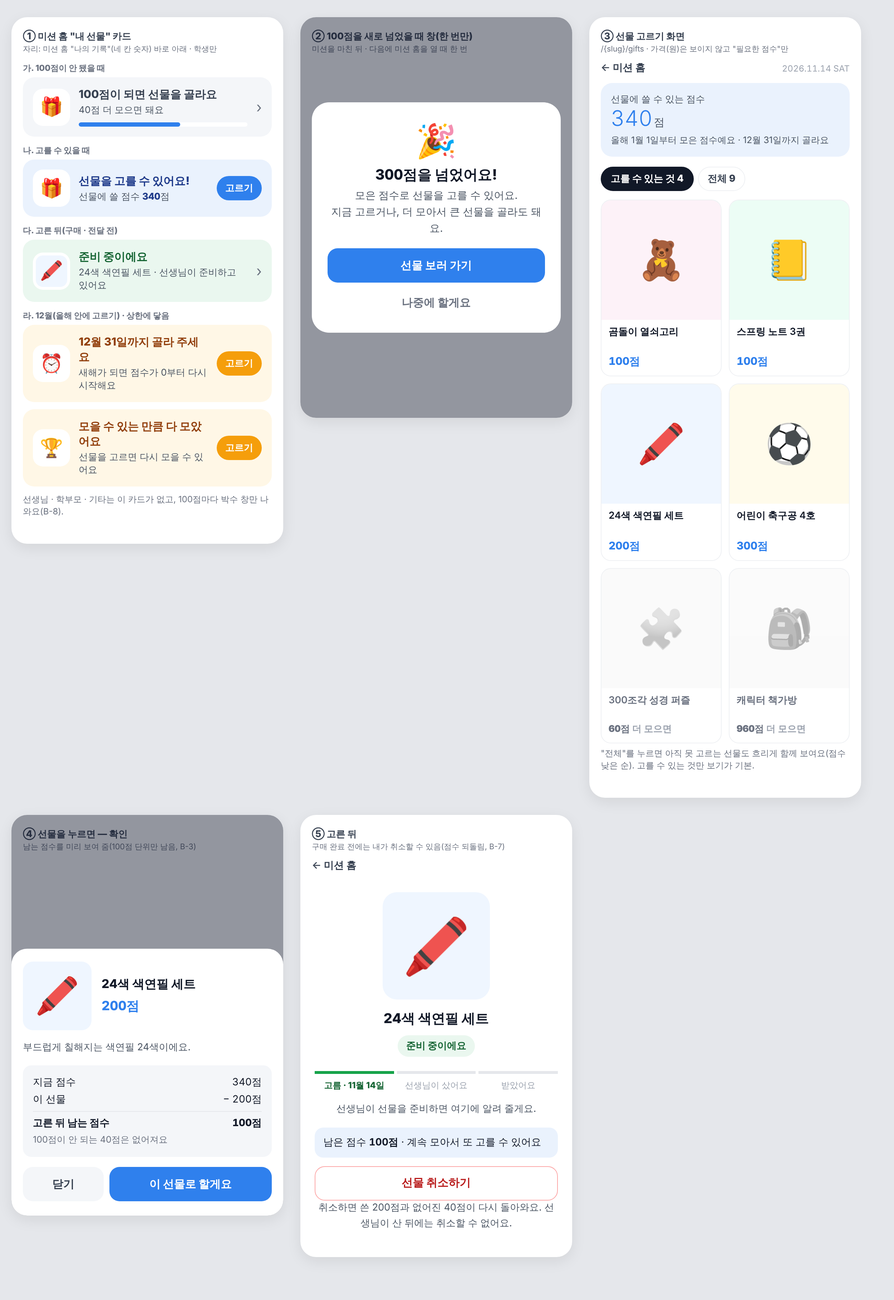
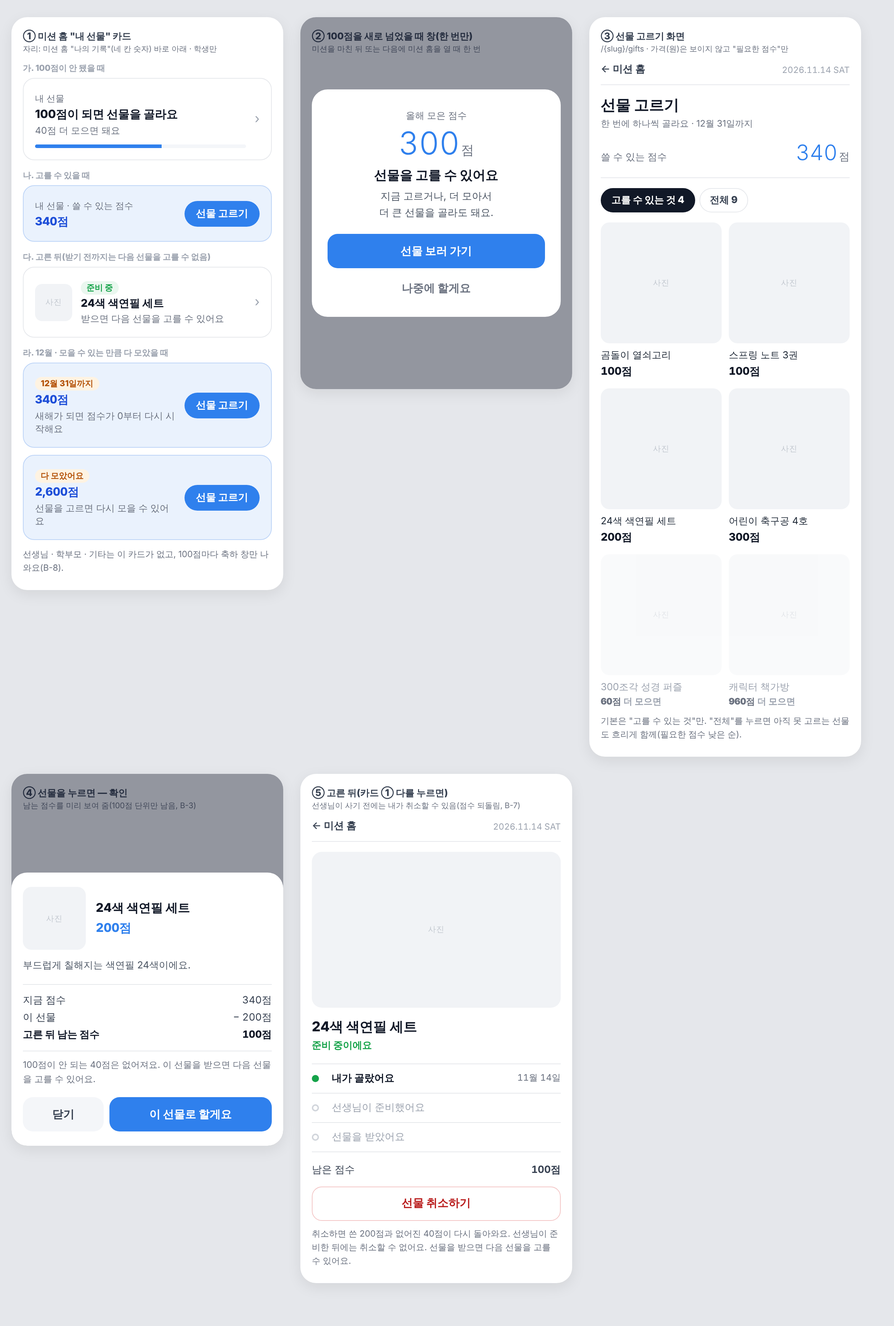
docs: gift picking mockup v2 (no emoji, one gift at a time)
Claude-Session: https://claude.ai/code/session_01HwbSXdgHx7n633oVVo9P9D

diff --git a/docs/design/시안/말씀-선물고르기-단독시안.html b/docs/design/시안/말씀-선물고르기-단독시안.html
@@ -5,97 +5,100 @@
 <meta name="viewport" content="width=device-width, initial-scale=1.0" />
 <title>개인 선물 고르기 시안</title>
 <style>
-/* 시안(2026-11-14): 도전 성경말씀 개인 선물 고르기(ADR 0094 B, 정한 것 1 · 2, R-279 ~ R-285).
-   ① 미션 홈 "내 선물" 카드(나의 기록 아래) — 상태 4가지  ② 100점을 새로 넘을 때 창 한 번
-   ③ 선물 고르기 화면(/{slug}/gifts)  ④ 고르기 확인  ⑤ 고른 뒤.
-   아이에게는 점수만(가격 · 크레딧 숨김). 상품 · 숫자는 지어낸 것. 모양은 미션 홈(mission-old.css) 색 · 글꼴을 따른다. */
-:root { --bg:#fff; --fg:#111827; --dim:#9CA3AF; --dim2:#6B7280; --rule:#EEF0F3; --soft:#F4F6F9; --accent:#2F80ED; --accent-bg:#EAF2FD; --green:#16A34A; --ok-bg:#EAF7EF; --warm:#F59E0B; --warm-bg:#FFF7E6; }
+/* 시안 2판(2026-11-14): 도전 성경말씀 개인 선물 고르기(ADR 0094 B, 정한 것 1 · 2 · 8, R-279 ~ R-285).
+   사용자: 이모지 없이 깔끔하게, 선물은 한 번에 하나(받은 뒤 다음 선물).
+   ① 미션 홈 "내 선물" 카드(나의 기록 아래)  ② 100점을 새로 넘을 때 창 한 번  ③ 고르기 화면(/{slug}/gifts)  ④ 확인  ⑤ 고른 뒤.
+   아이에게는 점수만(가격 · 크레딧 숨김). 상품 사진 자리는 회색 칸(실제는 상품 사진). 상품 · 숫자는 지어낸 것. */
+:root { --bg:#fff; --fg:#111827; --dim:#9CA3AF; --dim2:#6B7280; --rule:#E5E7EB; --soft:#F4F6F9; --accent:#2F80ED; --accent-bg:#EAF2FD; --green:#16A34A; --ok-bg:#EAF7EF; --warm:#B45309; }
 * { box-sizing: border-box; }
 body { margin: 0; padding: 24px 16px 60px; background: #E5E7EB; font-family: "Gothic A1", "Malgun Gothic", system-ui, sans-serif; color: var(--fg); }
 .num { font-variant-numeric: tabular-nums; }
 .board { display: flex; flex-wrap: wrap; gap: 24px; align-items: flex-start; }
 .ph { width: 380px; max-width: 100%; background: var(--bg); border-radius: 22px; padding: 18px 16px 22px; box-shadow: 0 6px 20px rgba(0,0,0,.08); position: relative; overflow: hidden; }
-.cap { font-size: 13px; font-weight: 800; color: #374151; margin: 0 0 10px; }
+.cap { font-size: 13px; font-weight: 800; color: #374151; margin: 0 0 12px; }
 .cap small { display: block; font-weight: 400; color: var(--dim2); margin-top: 2px; }
-.sh { font-size: 17px; font-weight: 800; margin: 4px 0 10px; }
-.hint { font-size: 12px; color: var(--dim2); margin: 6px 0 14px; }
+.hint { font-size: 12px; color: var(--dim2); margin: 8px 0 0; line-height: 1.6; }
+.lbl { font-size: 11.5px; font-weight: 800; color: var(--dim); margin: 14px 0 6px; }
+.lbl:first-of-type { margin-top: 0; }
+.pic { background: #F1F3F6; display: grid; place-items: center; color: #C3C8D0; font-size: 11px; letter-spacing: .04em; }
 
-/* ① 미션 홈 카드 */
-.gk { display: grid; grid-template-columns: 52px minmax(0,1fr) auto; gap: 12px; align-items: center; padding: 14px; border-radius: 16px; background: var(--accent-bg); text-decoration: none; color: inherit; margin-bottom: 10px; }
-.gk .ic { width: 52px; height: 52px; border-radius: 14px; background: #fff; display: grid; place-items: center; font-size: 26px; }
-.gk b { display: block; font-size: 15.5px; font-weight: 800; color: #1E3A8A; }
-.gk small { display: block; font-size: 13px; color: #4B5563; margin-top: 2px; }
-.gk .pb { display: block; height: 6px; border-radius: 9px; background: #fff; margin-top: 8px; overflow: hidden; }
-.gk .pb i { display: block; height: 100%; background: var(--accent); border-radius: 9px; }
-.gk .go { font-size: 13px; font-weight: 800; color: #fff; background: var(--accent); padding: 8px 12px; border-radius: 99px; white-space: nowrap; }
-.gk .ar { font-size: 20px; color: #6B7280; }
-.gk.wait { background: var(--soft); }
-.gk.wait b { color: #374151; }
-.gk.got { background: var(--ok-bg); }
-.gk.got b { color: #166534; }
-.gk.got .ic img, .gk .ic .thumb { width: 44px; height: 44px; border-radius: 10px; }
-.gk.dec { background: var(--warm-bg); }
-.gk.dec b { color: #92400E; }
-.lbl { font-size: 11.5px; font-weight: 800; color: var(--dim2); margin: 12px 0 5px; }
+/* ① 미션 홈 카드: 흰 바탕 + 얇은 테두리, 왼쪽 굵은 숫자 */
+.gk { display: grid; grid-template-columns: minmax(0,1fr) auto; gap: 12px; align-items: center; padding: 16px; border-radius: 16px; border: 1px solid var(--rule); text-decoration: none; color: inherit; margin-bottom: 10px; }
+.gk .k { font-size: 12.5px; color: var(--dim2); }
+.gk b { display: block; font-size: 16px; font-weight: 800; margin-top: 2px; }
+.gk small { display: block; font-size: 13px; color: var(--dim2); margin-top: 3px; }
+.gk .pb { display: block; height: 5px; border-radius: 9px; background: var(--soft); margin-top: 10px; overflow: hidden; }
+.gk .pb i { display: block; height: 100%; background: var(--accent); }
+.gk .go { font-size: 14px; font-weight: 800; color: #fff; background: var(--accent); padding: 9px 16px; border-radius: 99px; white-space: nowrap; }
+.gk .ar { font-size: 18px; color: var(--dim); }
+.gk.can { border-color: #BBD3F7; background: var(--accent-bg); }
+.gk.can b { color: #1D4ED8; }
+.gk.got { grid-template-columns: 52px minmax(0,1fr) auto; }
+.gk.got .pic { width: 52px; height: 52px; border-radius: 10px; }
+.gk .tag { display: inline-block; font-size: 11.5px; font-weight: 800; color: var(--green); background: var(--ok-bg); padding: 2px 8px; border-radius: 99px; }
+.gk .tag.w { color: var(--warm); background: #FEF3E2; }
 
 /* ② 창 */
 .dim { position: absolute; inset: 0; background: rgba(15,23,42,.45); display: grid; place-items: center; padding: 16px; }
-.pop { width: 100%; background: #fff; border-radius: 24px; padding: 26px 22px 18px; text-align: center; }
-.pop .big { font-size: 46px; }
-.pop h3 { margin: 6px 0 4px; font-size: 20px; font-weight: 800; }
-.pop p { margin: 0 0 16px; font-size: 14.5px; line-height: 1.6; color: #4B5563; }
+.pop { width: 100%; background: #fff; border-radius: 22px; padding: 28px 22px 16px; text-align: center; }
+.pop .k { font-size: 13px; color: var(--dim2); }
+.pop .big { font-size: 44px; font-weight: 300; color: var(--accent); line-height: 1.15; margin: 4px 0 8px; }
+.pop .big u { text-decoration: none; font-size: 18px; color: var(--dim2); margin-left: 2px; }
+.pop h3 { margin: 0 0 6px; font-size: 18px; font-weight: 800; }
+.pop p { margin: 0 0 18px; font-size: 14px; line-height: 1.65; color: #4B5563; }
 .btn { display: flex; align-items: center; justify-content: center; min-height: 48px; border-radius: 14px; font-size: 15.5px; font-weight: 800; border: 0; width: 100%; text-decoration: none; }
 .btn.pri { background: var(--accent); color: #fff; }
 .btn.sub { background: transparent; color: var(--dim2); margin-top: 4px; }
-.btn.line { background: #fff; color: #B91C1C; border: 1px solid #FCA5A5; }
+.btn.line { background: #fff; color: #B91C1C; border: 1px solid #F3C4C4; }
+.btn.off { background: var(--soft); color: var(--dim); }
 
 /* ③ 고르기 화면 */
-.bar { display: flex; justify-content: space-between; align-items: center; font-size: 14px; margin-bottom: 12px; }
+.bar { display: flex; justify-content: space-between; align-items: center; font-size: 14px; padding-bottom: 12px; margin-bottom: 14px; border-bottom: 1px solid var(--rule); }
 .bar a { color: #374151; text-decoration: none; font-weight: 600; }
-.mine { padding: 14px; border-radius: 16px; background: var(--accent-bg); margin-bottom: 14px; }
-.mine .k { font-size: 13px; color: #4B5563; }
-.mine .v { font-size: 30px; font-weight: 300; color: var(--accent); line-height: 1.2; }
-.mine .v u { text-decoration: none; font-size: 15px; color: #4B5563; margin-left: 2px; }
-.mine .t { font-size: 12.5px; color: #4B5563; margin-top: 4px; }
-.seg { display: flex; gap: 6px; margin-bottom: 12px; }
-.seg a { padding: 7px 13px; border-radius: 99px; border: 1px solid var(--rule); font-size: 13.5px; font-weight: 800; color: #374151; text-decoration: none; }
+.bar span { color: var(--dim); font-size: 12px; }
+h2 { margin: 0 0 4px; font-size: 21px; font-weight: 800; }
+.mine { display: flex; align-items: baseline; justify-content: space-between; padding: 14px 0 16px; border-bottom: 1px solid var(--rule); margin-bottom: 14px; }
+.mine .k { font-size: 13.5px; color: var(--dim2); }
+.mine .v { font-size: 30px; font-weight: 300; color: var(--accent); }
+.mine .v u { text-decoration: none; font-size: 15px; color: var(--dim2); margin-left: 2px; }
+.sub2 { font-size: 12.5px; color: var(--dim2); margin: 0; }
+.seg { display: flex; gap: 6px; margin-bottom: 14px; }
+.seg a { padding: 7px 14px; border-radius: 99px; border: 1px solid var(--rule); font-size: 13.5px; font-weight: 800; color: #374151; text-decoration: none; }
 .seg a[aria-current] { background: var(--fg); color: #fff; border-color: var(--fg); }
-.grid { display: grid; grid-template-columns: repeat(2, minmax(0,1fr)); gap: 10px; }
-.it { border: 1px solid var(--rule); border-radius: 14px; overflow: hidden; background: #fff; }
-.it .ph2 { aspect-ratio: 1; display: grid; place-items: center; font-size: 54px; }
-.it .bd { padding: 8px 10px 10px; }
-.it .nm { font-size: 13.5px; font-weight: 600; line-height: 1.35; height: 2.7em; overflow: hidden; }
-.it .pt { margin-top: 4px; font-size: 15px; font-weight: 800; color: var(--accent); }
-.it.lock .ph2 { filter: grayscale(1); opacity: .45; }
-.it.lock .nm { color: var(--dim2); }
-.it.lock .pt { color: var(--dim); font-weight: 600; font-size: 13px; }
-.it.lock .pt b { color: #6B7280; }
-.c1 { background: #FDF2F8; } .c2 { background: #ECFDF5; } .c3 { background: #EFF6FF; } .c4 { background: #FFFBEB; } .c5 { background: #F5F3FF; } .c6 { background: #FEF2F2; }
+.grid { display: grid; grid-template-columns: repeat(2, minmax(0,1fr)); gap: 14px 10px; }
+.it .pic { aspect-ratio: 1; border-radius: 12px; }
+.it .nm { margin-top: 8px; font-size: 13.5px; line-height: 1.4; display: -webkit-box; -webkit-line-clamp: 2; -webkit-box-orient: vertical; overflow: hidden; color: #1F2937; }
+.it .pt { margin-top: 2px; font-size: 15px; font-weight: 800; }
+.it.lock .pic { opacity: .45; }
+.it.lock .nm { color: var(--dim); }
+.it.lock .pt { font-size: 12.5px; font-weight: 600; color: var(--dim); }
+.it.lock .pt b { color: var(--dim2); }
 
 /* ④ 확인 */
-.sheet { position: absolute; left: 0; right: 0; bottom: 0; background: #fff; border-radius: 22px 22px 0 0; padding: 18px 16px 20px; }
-.sheet .top { display: grid; grid-template-columns: 96px minmax(0,1fr); gap: 14px; align-items: center; margin-bottom: 14px; }
-.sheet .top .ph2 { width: 96px; height: 96px; border-radius: 14px; display: grid; place-items: center; font-size: 50px; }
+.sheet { position: absolute; left: 0; right: 0; bottom: 0; background: #fff; border-radius: 22px 22px 0 0; padding: 20px 16px 20px; }
+.sheet .top { display: grid; grid-template-columns: 88px minmax(0,1fr); gap: 14px; align-items: center; margin-bottom: 12px; }
+.sheet .top .pic { width: 88px; height: 88px; border-radius: 12px; }
 .sheet h3 { margin: 0; font-size: 17px; font-weight: 800; line-height: 1.35; }
-.sheet .need { margin-top: 6px; font-size: 18px; font-weight: 800; color: var(--accent); }
-.calc { border-radius: 12px; background: var(--soft); padding: 12px 14px; font-size: 14px; margin-bottom: 14px; }
-.calc div { display: flex; justify-content: space-between; padding: 3px 0; }
-.calc .sum { border-top: 1px solid #E5E7EB; margin-top: 4px; padding-top: 7px; font-weight: 800; }
-.calc .gone { color: var(--dim2); font-size: 12.5px; }
+.sheet .need { margin-top: 4px; font-size: 17px; font-weight: 800; color: var(--accent); }
 .desc { font-size: 13.5px; color: #4B5563; line-height: 1.6; margin: 0 0 14px; }
+.calc { border-top: 1px solid var(--rule); border-bottom: 1px solid var(--rule); padding: 10px 0; font-size: 14px; margin-bottom: 10px; }
+.calc div { display: flex; justify-content: space-between; padding: 3px 0; color: #374151; }
+.calc .sum { font-weight: 800; color: var(--fg); }
+.note { font-size: 12.5px; color: var(--dim2); line-height: 1.6; margin: 0 0 14px; }
 .row2 { display: grid; grid-template-columns: minmax(0,1fr) minmax(0,2fr); gap: 8px; }
 .row2 .btn.sub { background: var(--soft); color: #374151; margin: 0; }
 
 /* ⑤ 고른 뒤 */
-.done { text-align: center; padding: 10px 4px 0; }
-.done .ph2 { width: 150px; height: 150px; margin: 6px auto 14px; border-radius: 20px; display: grid; place-items: center; font-size: 76px; }
+.done .pic { width: 100%; aspect-ratio: 1.6; border-radius: 14px; margin-bottom: 14px; }
 .done h3 { margin: 0; font-size: 19px; font-weight: 800; }
-.done .st { display: inline-block; margin: 10px 0 6px; padding: 6px 12px; border-radius: 99px; background: var(--ok-bg); color: #166534; font-size: 13.5px; font-weight: 800; }
-.steps { display: grid; grid-template-columns: repeat(3, minmax(0,1fr)); gap: 4px; margin: 14px 0; font-size: 12px; color: var(--dim); }
-.steps span { padding-top: 8px; border-top: 4px solid #E5E7EB; }
-.steps span.on { border-color: var(--green); color: #166534; font-weight: 800; }
-.done p { font-size: 13.5px; color: #4B5563; line-height: 1.6; margin: 0 0 14px; }
-.left { border-radius: 12px; background: var(--accent-bg); padding: 12px; font-size: 14px; margin-bottom: 12px; text-align: left; }
+.done .st { font-size: 13.5px; color: var(--green); font-weight: 800; margin-top: 4px; }
+.steps { list-style: none; margin: 16px 0; padding: 0; border-top: 1px solid var(--rule); }
+.steps li { display: grid; grid-template-columns: 18px minmax(0,1fr) auto; gap: 10px; align-items: center; padding: 11px 0; border-bottom: 1px solid var(--rule); font-size: 14px; color: var(--dim); }
+.steps li i { width: 10px; height: 10px; border-radius: 50%; border: 2px solid #D1D5DB; }
+.steps li.on { color: var(--fg); font-weight: 600; }
+.steps li.on i { background: var(--green); border-color: var(--green); }
+.steps li span:last-child { font-size: 12.5px; color: var(--dim2); font-weight: 400; }
+.left { display: flex; justify-content: space-between; font-size: 14px; color: #374151; padding: 0 0 14px; }
 </style>
 </head>
 <body>
@@ -106,48 +109,45 @@ body { margin: 0; padding: 24px 16px 60px; background: #E5E7EB; font-family: "Go
     <p class="cap">① 미션 홈 "내 선물" 카드<small>자리: 미션 홈 "나의 기록"(네 칸 숫자) 바로 아래 · 학생만</small></p>
 
     <div class="lbl">가. 100점이 안 됐을 때</div>
-    <a class="gk wait" href="#">
-      <span class="ic">🎁</span>
-      <span><b>100점이 되면 선물을 골라요</b><small><span class="num">40</span>점 더 모으면 돼요</small><span class="pb"><i style="width:60%"></i></span></span>
+    <a class="gk" href="#">
+      <span><span class="k">내 선물</span><b>100점이 되면 선물을 골라요</b><small><span class="num">40</span>점 더 모으면 돼요</small><span class="pb"><i style="width:60%"></i></span></span>
       <span class="ar">›</span>
     </a>
 
     <div class="lbl">나. 고를 수 있을 때</div>
-    <a class="gk" href="#">
-      <span class="ic">🎁</span>
-      <span><b>선물을 고를 수 있어요!</b><small>선물에 쓸 점수 <b class="num" style="display:inline;font-size:13px">340</b>점</small></span>
-      <span class="go">고르기</span>
+    <a class="gk can" href="#">
+      <span><span class="k">내 선물 · 쓸 수 있는 점수</span><b class="num">340점</b></span>
+      <span class="go">선물 고르기</span>
     </a>
 
-    <div class="lbl">다. 고른 뒤(구매 · 전달 전)</div>
+    <div class="lbl">다. 고른 뒤(받기 전까지는 다음 선물을 고를 수 없음)</div>
     <a class="gk got" href="#">
-      <span class="ic"><span class="thumb c3" style="display:grid;place-items:center;font-size:26px">🖍</span></span>
-      <span><b>준비 중이에요</b><small>24색 색연필 세트 · 선생님이 준비하고 있어요</small></span>
+      <span class="pic">사진</span>
+      <span><span class="tag">준비 중</span><b style="font-size:15px">24색 색연필 세트</b><small>받으면 다음 선물을 고를 수 있어요</small></span>
       <span class="ar">›</span>
     </a>
 
-    <div class="lbl">라. 12월(올해 안에 고르기) · 상한에 닿음</div>
-    <a class="gk dec" href="#">
-      <span class="ic">⏰</span>
-      <span><b>12월 31일까지 골라 주세요</b><small>새해가 되면 점수가 0부터 다시 시작해요</small></span>
-      <span class="go" style="background:#F59E0B">고르기</span>
+    <div class="lbl">라. 12월 · 모을 수 있는 만큼 다 모았을 때</div>
+    <a class="gk can" href="#">
+      <span><span class="tag w">12월 31일까지</span><b class="num">340점</b><small>새해가 되면 점수가 0부터 다시 시작해요</small></span>
+      <span class="go">선물 고르기</span>
     </a>
-    <a class="gk dec" href="#">
-      <span class="ic">🏆</span>
-      <span><b>모을 수 있는 만큼 다 모았어요</b><small>선물을 고르면 다시 모을 수 있어요</small></span>
-      <span class="go" style="background:#F59E0B">고르기</span>
+    <a class="gk can" href="#">
+      <span><span class="tag w">다 모았어요</span><b class="num">2,600점</b><small>선물을 고르면 다시 모을 수 있어요</small></span>
+      <span class="go">선물 고르기</span>
     </a>
-    <p class="hint">선생님 · 학부모 · 기타는 이 카드가 없고, 100점마다 박수 창만 나와요(B-8).</p>
+    <p class="hint">선생님 · 학부모 · 기타는 이 카드가 없고, 100점마다 축하 창만 나와요(B-8).</p>
   </section>
 
   <!-- ② 100점 창 -->
-  <section class="ph" style="min-height:560px">
-    <p class="cap">② 100점을 새로 넘었을 때 창(한 번만)<small>미션을 마친 뒤 · 다음에 미션 홈을 열 때 한 번</small></p>
+  <section class="ph" style="min-height:520px">
+    <p class="cap">② 100점을 새로 넘었을 때 창(한 번만)<small>미션을 마친 뒤 또는 다음에 미션 홈을 열 때 한 번</small></p>
     <div class="dim">
       <div class="pop">
-        <div class="big">🎉</div>
-        <h3><span class="num">300</span>점을 넘었어요!</h3>
-        <p>모은 점수로 선물을 고를 수 있어요.<br>지금 고르거나, 더 모아서 큰 선물을 골라도 돼요.</p>
+        <div class="k">올해 모은 점수</div>
+        <div class="big num">300<u>점</u></div>
+        <h3>선물을 고를 수 있어요</h3>
+        <p>지금 고르거나, 더 모아서<br>더 큰 선물을 골라도 돼요.</p>
         <a class="btn pri" href="#">선물 보러 가기</a>
         <a class="btn sub" href="#">나중에 할게요</a>
       </div>
@@ -157,37 +157,35 @@ body { margin: 0; padding: 24px 16px 60px; background: #E5E7EB; font-family: "Go
   <!-- ③ 고르기 화면 -->
   <section class="ph">
     <p class="cap">③ 선물 고르기 화면<small>/{slug}/gifts · 가격(원)은 보이지 않고 "필요한 점수"만</small></p>
-    <div class="bar"><a href="#">← 미션 홈</a><span class="num" style="color:var(--dim);font-size:12px">2026.11.14 SAT</span></div>
-    <div class="mine">
-      <div class="k">선물에 쓸 수 있는 점수</div>
-      <div class="v num">340<u>점</u></div>
-      <div class="t">올해 1월 1일부터 모은 점수예요 · 12월 31일까지 골라요</div>
-    </div>
+    <div class="bar"><a href="#">← 미션 홈</a><span class="num">2026.11.14 SAT</span></div>
+    <h2>선물 고르기</h2>
+    <p class="sub2">한 번에 하나씩 골라요 · 12월 31일까지</p>
+    <div class="mine"><span class="k">쓸 수 있는 점수</span><span class="v num">340<u>점</u></span></div>
     <div class="seg"><a href="#" aria-current="true">고를 수 있는 것 <span class="num">4</span></a><a href="#">전체 <span class="num">9</span></a></div>
     <div class="grid">
-      <div class="it"><div class="ph2 c1">🧸</div><div class="bd"><div class="nm">곰돌이 열쇠고리</div><div class="pt num">100점</div></div></div>
-      <div class="it"><div class="ph2 c2">📒</div><div class="bd"><div class="nm">스프링 노트 3권</div><div class="pt num">100점</div></div></div>
-      <div class="it"><div class="ph2 c3">🖍</div><div class="bd"><div class="nm">24색 색연필 세트</div><div class="pt num">200점</div></div></div>
-      <div class="it"><div class="ph2 c4">⚽</div><div class="bd"><div class="nm">어린이 축구공 4호</div><div class="pt num">300점</div></div></div>
-      <div class="it lock"><div class="ph2 c5">🧩</div><div class="bd"><div class="nm">300조각 성경 퍼즐</div><div class="pt"><b class="num">60점</b> 더 모으면</div></div></div>
-      <div class="it lock"><div class="ph2 c6">🎒</div><div class="bd"><div class="nm">캐릭터 책가방</div><div class="pt"><b class="num">960점</b> 더 모으면</div></div></div>
+      <div class="it"><div class="pic">사진</div><div class="nm">곰돌이 열쇠고리</div><div class="pt num">100점</div></div>
+      <div class="it"><div class="pic">사진</div><div class="nm">스프링 노트 3권</div><div class="pt num">100점</div></div>
+      <div class="it"><div class="pic">사진</div><div class="nm">24색 색연필 세트</div><div class="pt num">200점</div></div>
+      <div class="it"><div class="pic">사진</div><div class="nm">어린이 축구공 4호</div><div class="pt num">300점</div></div>
+      <div class="it lock"><div class="pic">사진</div><div class="nm">300조각 성경 퍼즐</div><div class="pt"><b class="num">60점</b> 더 모으면</div></div>
+      <div class="it lock"><div class="pic">사진</div><div class="nm">캐릭터 책가방</div><div class="pt"><b class="num">960점</b> 더 모으면</div></div>
     </div>
-    <p class="hint">"전체"를 누르면 아직 못 고르는 선물도 흐리게 함께 보여요(점수 낮은 순). 고를 수 있는 것만 보기가 기본.</p>
+    <p class="hint">기본은 "고를 수 있는 것"만. "전체"를 누르면 아직 못 고르는 선물도 흐리게 함께(필요한 점수 낮은 순).</p>
   </section>
 
   <!-- ④ 확인 -->
-  <section class="ph" style="min-height:560px">
+  <section class="ph" style="min-height:520px">
     <p class="cap">④ 선물을 누르면 — 확인<small>남는 점수를 미리 보여 줌(100점 단위만 남음, B-3)</small></p>
     <div class="dim" style="align-items:end;padding:0">
       <div class="sheet">
-        <div class="top"><div class="ph2 c3">🖍</div><div><h3>24색 색연필 세트</h3><div class="need num">200점</div></div></div>
+        <div class="top"><div class="pic">사진</div><div><h3>24색 색연필 세트</h3><div class="need num">200점</div></div></div>
         <p class="desc">부드럽게 칠해지는 색연필 24색이에요.</p>
         <div class="calc">
           <div><span>지금 점수</span><span class="num">340점</span></div>
           <div><span>이 선물</span><span class="num">− 200점</span></div>
           <div class="sum"><span>고른 뒤 남는 점수</span><span class="num">100점</span></div>
-          <div class="gone"><span>100점이 안 되는 40점은 없어져요</span><span></span></div>
         </div>
+        <p class="note">100점이 안 되는 40점은 없어져요. 이 선물을 받으면 다음 선물을 고를 수 있어요.</p>
         <div class="row2"><a class="btn sub" href="#">닫기</a><a class="btn pri" href="#">이 선물로 할게요</a></div>
       </div>
     </div>
@@ -195,17 +193,20 @@ body { margin: 0; padding: 24px 16px 60px; background: #E5E7EB; font-family: "Go
 
   <!-- ⑤ 고른 뒤 -->
   <section class="ph">
-    <p class="cap">⑤ 고른 뒤<small>구매 완료 전에는 내가 취소할 수 있음(점수 되돌림, B-7)</small></p>
-    <div class="bar"><a href="#">← 미션 홈</a></div>
+    <p class="cap">⑤ 고른 뒤(카드 ① 다를 누르면)<small>선생님이 사기 전에는 내가 취소할 수 있음(점수 되돌림, B-7)</small></p>
+    <div class="bar"><a href="#">← 미션 홈</a><span class="num">2026.11.14 SAT</span></div>
     <div class="done">
-      <div class="ph2 c3">🖍</div>
+      <div class="pic">사진</div>
       <h3>24색 색연필 세트</h3>
-      <span class="st">준비 중이에요</span>
-      <div class="steps"><span class="on">고름 · 11월 14일</span><span>선생님이 샀어요</span><span>받았어요</span></div>
-      <p>선생님이 선물을 준비하면 여기에 알려 줄게요.</p>
-      <div class="left">남은 점수 <b class="num">100점</b> · 계속 모아서 또 고를 수 있어요</div>
+      <div class="st">준비 중이에요</div>
+      <ul class="steps">
+        <li class="on"><i></i><span>내가 골랐어요</span><span class="num">11월 14일</span></li>
+        <li><i></i><span>선생님이 준비했어요</span><span></span></li>
+        <li><i></i><span>선물을 받았어요</span><span></span></li>
+      </ul>
+      <div class="left"><span>남은 점수</span><b class="num">100점</b></div>
       <a class="btn line" href="#">선물 취소하기</a>
-      <p class="hint">취소하면 쓴 200점과 없어진 40점이 다시 돌아와요. 선생님이 산 뒤에는 취소할 수 없어요.</p>
+      <p class="hint">취소하면 쓴 200점과 없어진 40점이 다시 돌아와요. 선생님이 준비한 뒤에는 취소할 수 없어요. 선물을 받으면 다음 선물을 고를 수 있어요.</p>
     </div>
   </section>
 

diff --git a/docs/design/0094-선물-시스템.md b/docs/design/0094-선물-시스템.md
@@ -85,3 +85,4 @@
 5. **새해가 되면 시스템이 무조건 초기화한다.** 시상 기록(`DM2_TeamAward`)은 지난해 기록으로 옮기고 비워, 같은 팀이 새해에 같은 단계를 넘으면 다시 받는다. **끝나지 않은 선물(고를 수 있음 · 고름 · 구매 완료)도 모두 닫는다** — 남은 것은 관리자가 오프라인으로 따로 준다. 관리자 버튼 · 막기는 없다. (질문 20 · 21, 사용자 "강제 초기화, 시스템은 무조건 초기화")
 6. **새 상품 번호는 5000번부터**(2026-11-14 사용자, 질문 25): 유년부 상품을 옮기기 전에 시험 상품이 1000번을 받아 유년부 1000번과 겹치고, 서버의 유년부 사진 1000.jpg 를 덮어쓴 일이 있었다. 유년부 상품은 옮길 때 원래 번호(5000 미만)로 들어간다. 서버에 같은 번호 사진이 이미 있으면 덮어쓰지 않고, 상품을 지울 때 그 상품이 올린 사진만 지운다.
 7. **부서 관리자가 "전체 공통으로 등록"을 체크하면 처음부터 공통 상품**(모든 부서에 보임, SharedByTenantId = 그 부서)이 되고, **공통 상품 번호는 2000번부터**(2000 ~ 4999, 앱이 정해 넣음). 부서 상품은 5000번부터(IDENTITY). 플랫폼이 만드는 상품도 공통이라 2000번대. 이미 만든 부서 상품을 나중에 [공통에 올리기] 하면 번호는 그대로(사진 · 기록이 번호에 묶여 있음). (2026-11-14 사용자, 질문 26 → "2000번부터")
+8. **개인 선물은 한 번에 하나만** 고른다. 고른 선물을 **받은 뒤(전달 완료)**에야 다음 선물을 고를 수 있다. 남은 점수는 그대로 쌓인다. 고르기 화면 · 미션 홈 카드에는 이모지를 쓰지 않는다(깔끔한 화면). (2026-11-14 사용자, 개인 선물 고르기 시안 질문 → ②)
